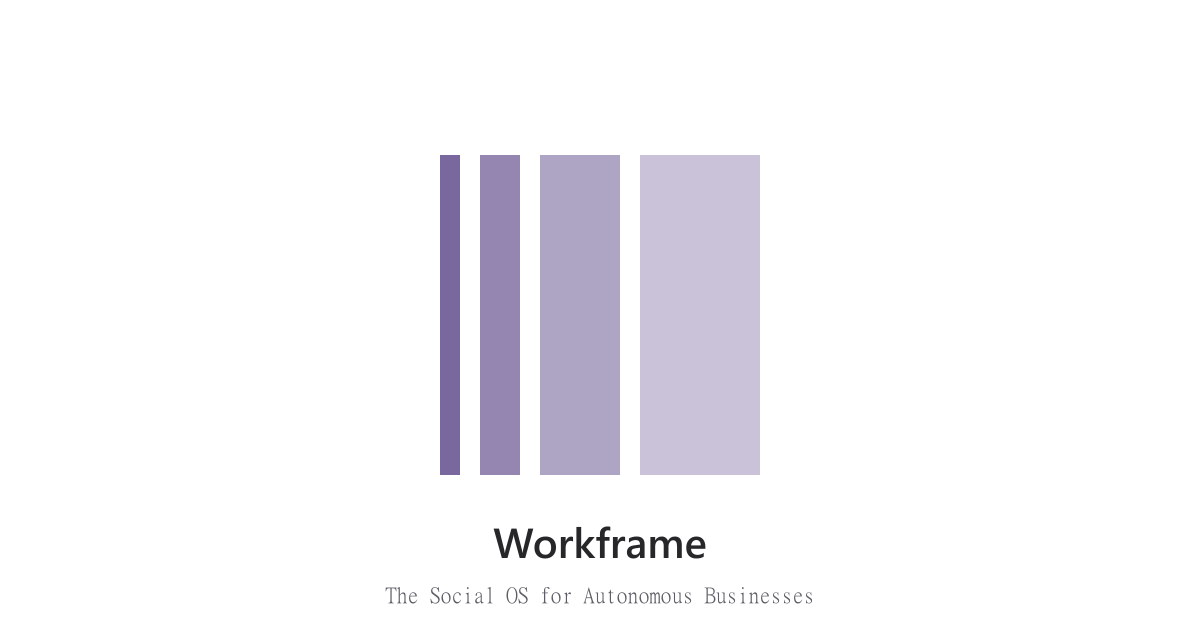
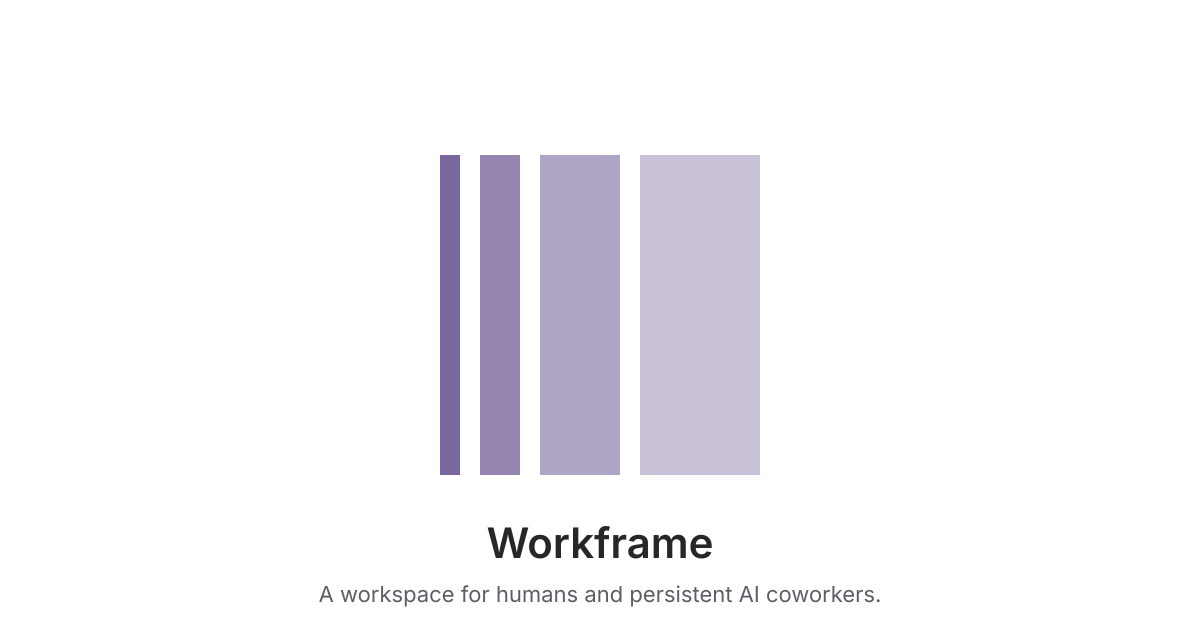
Swap category copy for locked Workframe chrome and marketing lines (#36)
* Swap category copy for locked Workframe chrome and marketing lines

Replace Oiko-era Social OS / Autonomous Businesses language with the
visionary-locked title and supporting lines across web chrome, website
marketing, API site_meta defaults, manifests, OG assets, and north-star
tagline.

* Replace workspace README seed with locked Workframe copy

Swap social/kanban scaffold lede for Steve's title and supporting lines
in create-workframe rules and API _ensure_workspace_readme().

* Sync create-workframe pack mirrors with locked chrome copy

Run canonical sync and UI bundle; force-add pack site_meta, index.html,
manifest, and og-default.svg so npm pack matches apps/web and workframe-api
source without Social OS category language.

---------

Changed region(s): [[0.2467, 0.9349, 0.74, 0.9651], [0.4008, 0.8143, 0.6167, 0.9048]]

diff --git a/apps/website/src/app/page.tsx b/apps/website/src/app/page.tsx
@@ -10,11 +10,10 @@ export default function Home() {
       <main className="mx-auto flex w-full max-w-3xl flex-1 flex-col items-center gap-14 px-6 pb-16 pt-10 sm:gap-16 sm:px-10 sm:pt-14">
         <section className="flex w-full flex-col items-center gap-5 text-center">
           <h1 className="max-w-xl text-[2rem] font-semibold leading-[1.12] tracking-[-0.03em] text-[var(--wf-text)] sm:text-[2.75rem]">
-            The Social OS for Autonomous Businesses
+            Workframe. A workspace for humans and persistent AI coworkers.
           </h1>
           <p className="max-w-md text-[17px] leading-7 text-[var(--wf-muted)] sm:text-[18px]">
-            A private workspace where humans and agents collaborate through chat,
-            boards, and files.
+            Communities exchange messages. Workframe teams exchange work.
           </p>
         </section>
 

diff --git a/apps/website/src/lib/site-metadata.ts b/apps/website/src/lib/site-metadata.ts
@@ -4,16 +4,17 @@ export const siteUrl = process.env.NEXT_PUBLIC_SITE_URL ?? "https://workfra.me";
 
 export const siteName = "Workframe";
 
-export const siteTitle = "Workframe — The Social OS for Autonomous Businesses";
+export const siteTitle =
+  "Workframe. A workspace for humans and persistent AI coworkers.";
 
 export const siteDescription =
-  "Install a private workspace where humans and agents collaborate through chat, boards, and files. Multi-user, BYOK, self-hosted.";
+  "Communities exchange messages. Workframe teams exchange work.";
 
 export const ogImage = {
   url: "/og-default.png",
   width: 1200,
   height: 630,
-  alt: "Workframe — Autonomous Business Machines",
+  alt: "Workframe. A workspace for humans and persistent AI coworkers.",
   type: "image/png",
 } as const;
 

diff --git a/apps/web/src/lib/siteMeta.ts b/apps/web/src/lib/siteMeta.ts
@@ -54,7 +54,7 @@ function upsertLink(rel: string, href: string, type?: string) {
 }
 
 export function applySiteMeta(meta: PublicSiteMeta) {
-  document.title = meta.title || 'Workframe'
+  document.title = meta.title || 'Workframe. A workspace for humans and persistent AI coworkers.'
   upsertMeta('name', 'description', meta.description)
   upsertMeta('name', 'theme-color', meta.theme_color)
   upsertMeta('property', 'og:type', 'website')

diff --git a/packages/create-workframe/workframe-ui/public/index.html b/packages/create-workframe/workframe-ui/public/index.html
@@ -56,9 +56,10 @@
       })()
           </script>
     <!-- architectonic-theme-bootstrap:end -->
+    <script type="module" crossorigin src="/assets/index-xhjx4PHp.js?v=0.1.64-mtb1huck"></script>
+    <link rel="stylesheet" crossorigin href="/assets/index-BvbiEjvW.css?v=0.1.64-mtb1huck">
   </head>
   <body>
     <div id="root"></div>
-    <script type="module" src="/src/main.tsx"></script>
   </body>
 </html>

diff --git a/apps/website/src/app/layout.tsx b/apps/website/src/app/layout.tsx
@@ -44,7 +44,7 @@ export const metadata: Metadata = {
     "Workframe",
     "Hermes",
     "AI agents",
-    "autonomous business",
+    "AI coworkers",
     "multi-agent",
     "self-hosted",
     "BYOK",

diff --git a/services/workframe-api/server.py b/services/workframe-api/server.py
@@ -2524,9 +2524,9 @@ def _ensure_workspace_readme() -> None:
         if not readme.is_file():
             readme.write_text(
                 f"# {PROJECT_NAME}\n\n"
-                "Welcome to Workframe â€” your team's social AI collaboration space.\n\n"
-                "Use this file to keep a living record of what this project is, who is on the team, "
-                "sub-projects, agents, kanban guidelines, and anything else newcomers should know.\n",
+                "Workframe. A workspace for humans and persistent AI coworkers.\n\n"
+                "Communities exchange messages. Workframe teams exchange work.\n\n"
+                "This file is the living record of the team and the work.\n",
                 encoding="utf-8",
             )
         agents = WORKSPACE / "AGENTS.md"

diff --git a/packages/create-workframe/rules/workspace-README.md b/packages/create-workframe/rules/workspace-README.md
@@ -1,5 +1,7 @@
 # {projectName}
 
-Welcome to Workframe — your team's social AI collaboration space.
+Workframe. A workspace for humans and persistent AI coworkers.
 
-Use this file to keep a living record of what this project is, who is on the team, sub-projects, agents, kanban guidelines, and anything else newcomers should know. Your Workframe Agent can help you evolve it over time.
+Communities exchange messages. Workframe teams exchange work.
+
+This file is the living record of the team and the work.

diff --git a/docs/ledger/north-star.md b/docs/ledger/north-star.md
@@ -1,7 +1,7 @@
 # North star (summary)
 
 **Full brief:** [strategy/workframe_v0_1_1_docs/WORKFRAME_v0.1.1_MASTER.md](../strategy/workframe_v0_1_1_docs/WORKFRAME_v0.1.1_MASTER.md)  
-**Tagline:** The Social OS for Autonomous Businesses
+**Tagline:** Workframe. A workspace for humans and persistent AI coworkers.
 
 ## First principle
 
